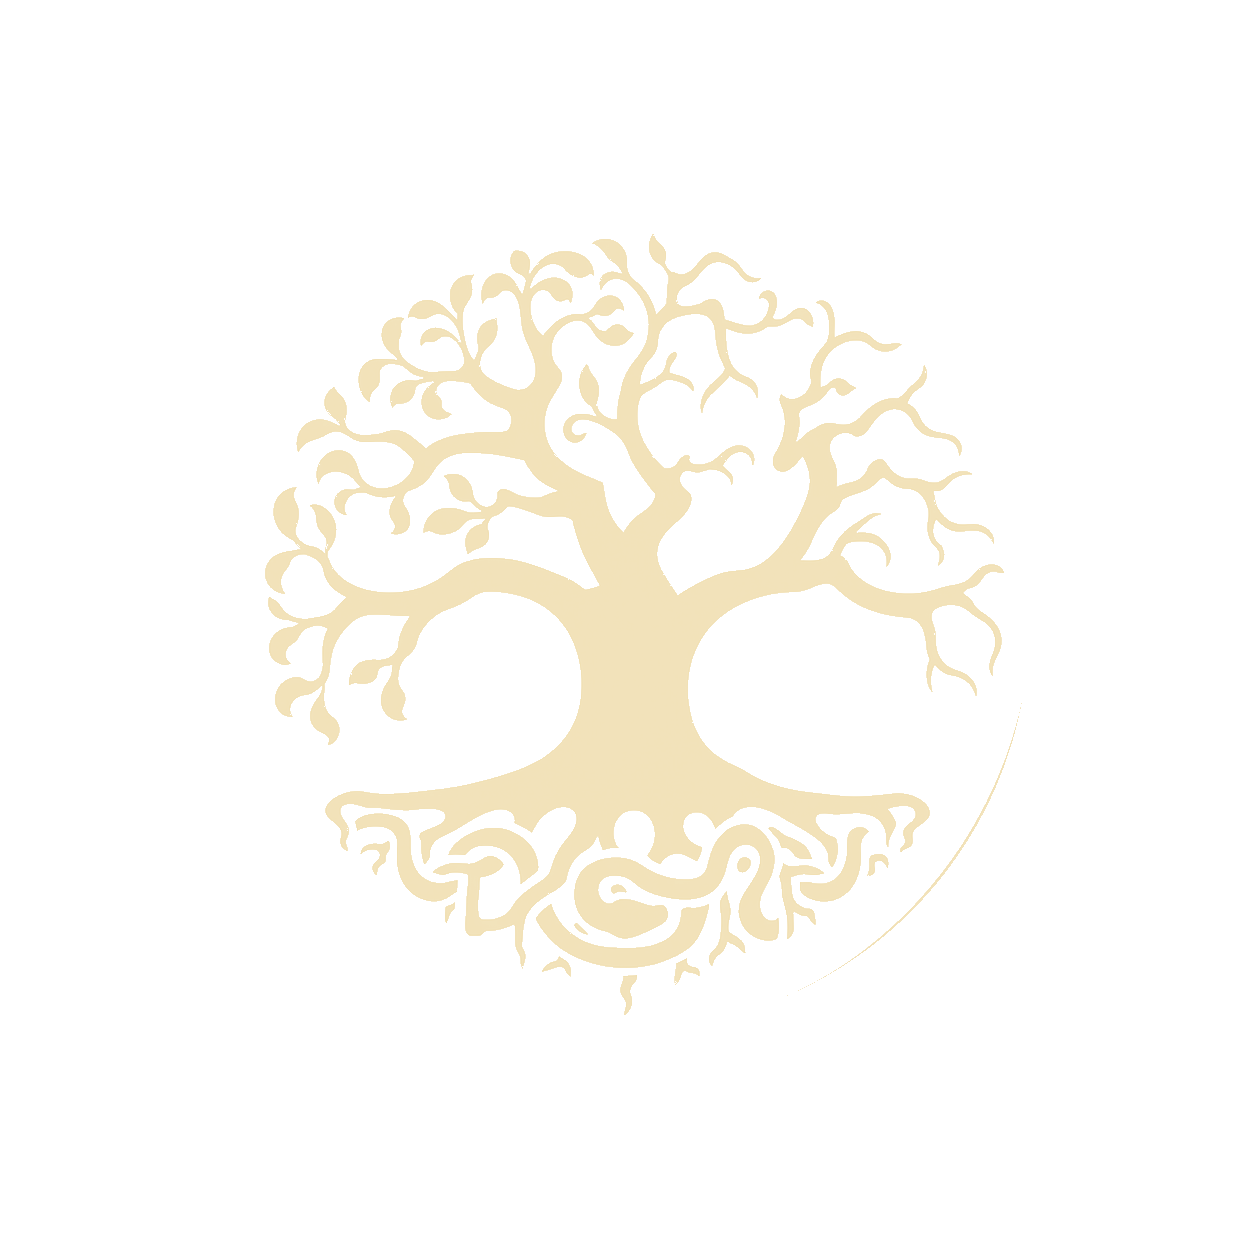
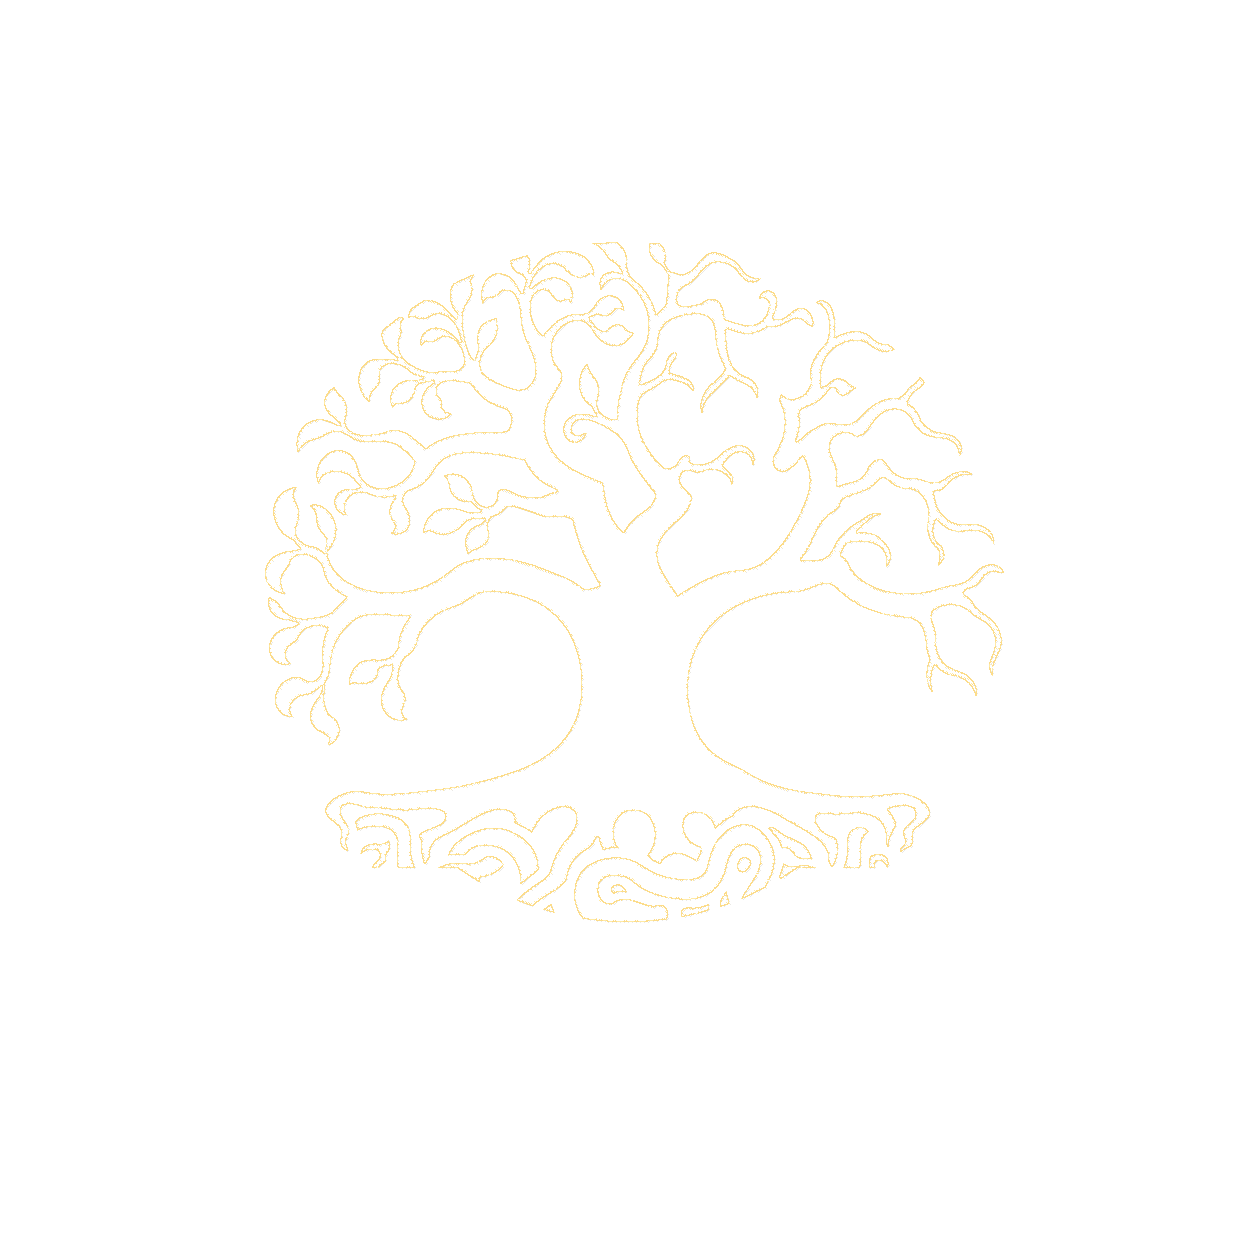
fix:世界树修改

Changed region(s): [[0.1866, 0.1866, 0.8086, 0.8086], [0.7464, 0.5287, 0.7775, 0.5598]]

diff --git a/app/globals.css b/app/globals.css
@@ -4953,16 +4953,17 @@ button:disabled:hover {
 }
 
 .world-tree-lineart {
-  top: -38px;
-  width: min(430px, 62vw);
-  height: min(430px, 62vw);
+  top: -64px;
+  width: min(510px, 72vw);
+  height: min(510px, 72vw);
   overflow: visible;
-  opacity: 0.68;
+  opacity: 0.82;
   border-radius: 0;
   mix-blend-mode: screen;
   filter:
-    drop-shadow(0 0 14px rgba(217, 194, 122, 0.26))
-    drop-shadow(0 0 52px rgba(217, 194, 122, 0.14));
+    contrast(1.34)
+    drop-shadow(0 0 2px rgba(255, 226, 148, 0.32))
+    drop-shadow(0 0 14px rgba(217, 194, 122, 0.08));
 }
 
 .world-tree-lineart::after {
